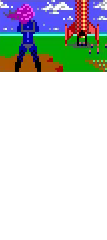
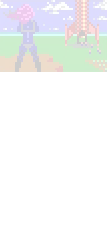
Shorten the Syreen capture scene: end with the lift down, hold 0.5 s
The scene ended a frame into the lift's next trip down and froze there,
which looked like a stutter. It now ends when the lift lands on its fourth
trip and holds that for half a second: 8.1 s on screen down to 5.3 s.

Claude-Session: https://claude.ai/code/session_014dAFHG67iYtLDRdv4mJ4ga

Changed region(s): [[0.0, 0.0, 1.0, 0.3208]]

diff --git a/tools/make_planet_anims.py b/tools/make_planet_anims.py
@@ -10,7 +10,8 @@ kept, at 15 fps, then the last picture fades out over a few frames.
                     the first shot, the blast, and the screen whiting out,
                     up to the moment it is all white
   syreen-capture    the captain watching her ship fill up with the planet's
-                    colonists, from the cut to the planet up to the cut away
+                    colonists, from the cut to the planet until the lift is down
+                    on its fourth trip
   artifact          the Precursor device's screen filling with glyphs, cut
                     out of its starfield (see cutout_mask)
 
@@ -47,7 +48,7 @@ CROP = (523, 302, 630, 374)    # left, top, right, bottom: inside the box's grey
 SCENES = {
     "colony-destroyed": (5, 109),
     "mine-destroyed": (82, 188),
-    "syreen-capture": (139, 344),
+    "syreen-capture": (139, 273),
     "artifact": (3, 207),
 }
 CUTOUT = {"artifact"}           # scenes cut out of a dark background
